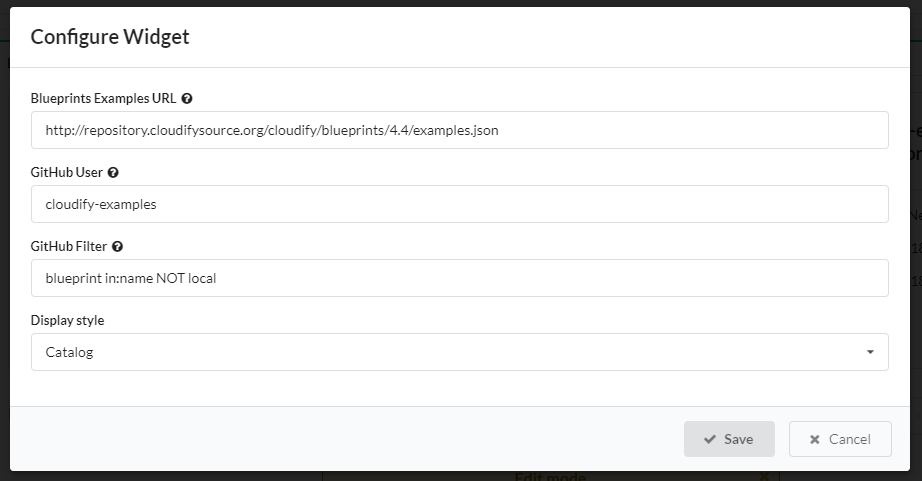
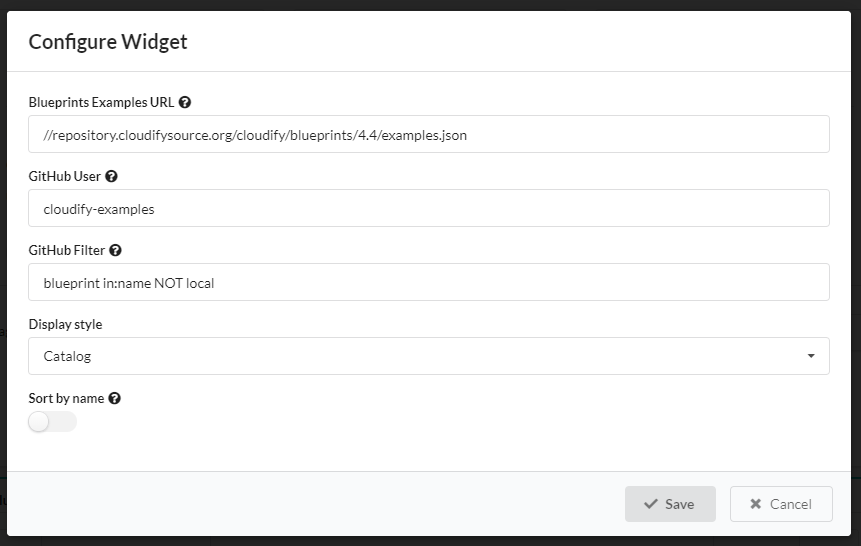
Updated documentation for Blueprint Catalog and Plugins Catalog widgets (CY-958 - Add sorting configuration option to Blueprint Catalog and Plugins Catalog)

diff --git a/content/working_with/console/widgets/blueprintCatalog.md b/content/working_with/console/widgets/blueprintCatalog.md
@@ -17,3 +17,4 @@ You can and should enter Github credentials for fetching data, as the defaults u
 * `GitHub User` - GitHub user or organization account name which is the owner of the repository to fetch. Default: cloudify-examples
 * `GitHub Filter` - Optional filter for GitHub repositories. See GitHub’s web page ‘Searching repositories’ for more details. 
 * `Display style` - defines whether the widget’s view is Catalog or Table. Default: Catalog
+* `Sort by name` -  if set to true, then blueprints will be sorted by name. Default: No

diff --git a/content/working_with/console/widgets/pluginsCatalog.md b/content/working_with/console/widgets/pluginsCatalog.md
@@ -10,3 +10,4 @@ A widget listing all the latest releases of the officially supported Cloudify pl
 
 #### Widget Settings
 * `Plugins Catalog JSON Source`  - The json file from which the widget reads the plugins list. 
+* `Sort by name` -  if set to true, then plugins will be sorted by name. Default: No
